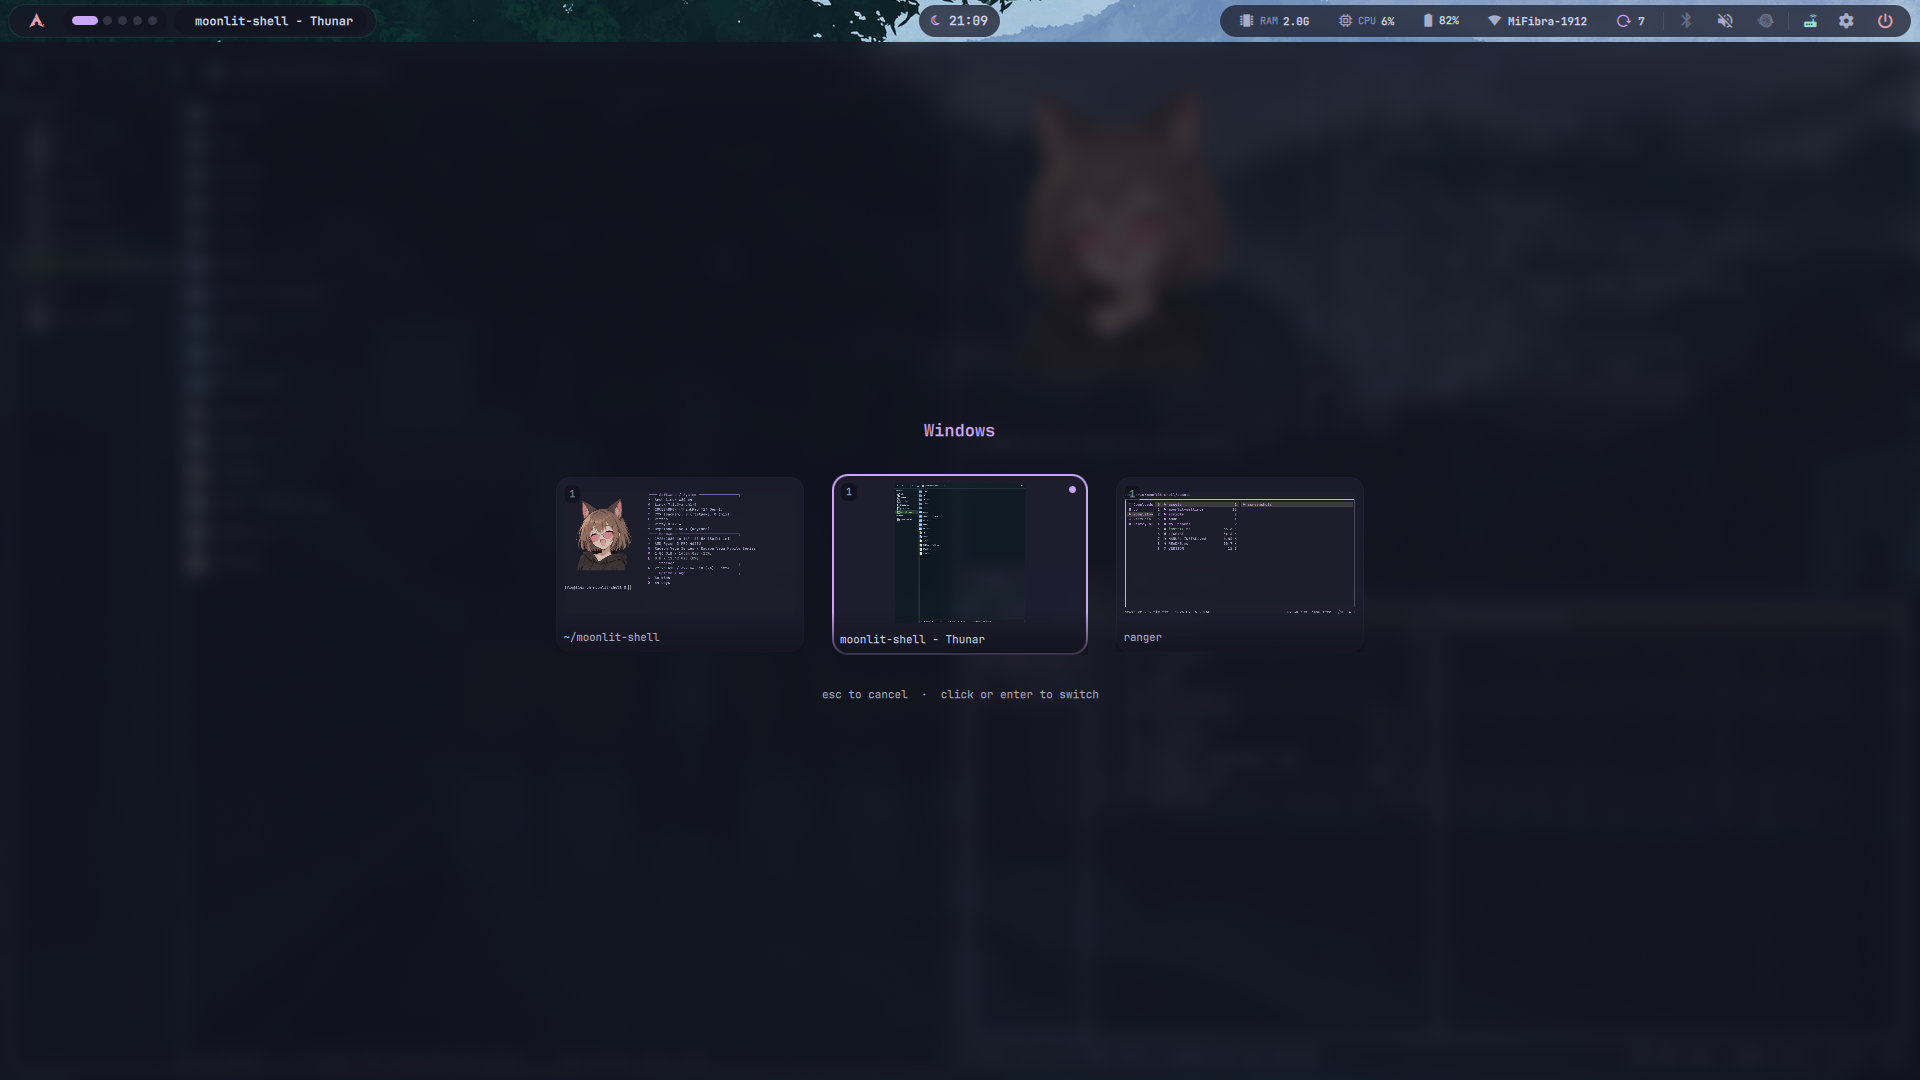
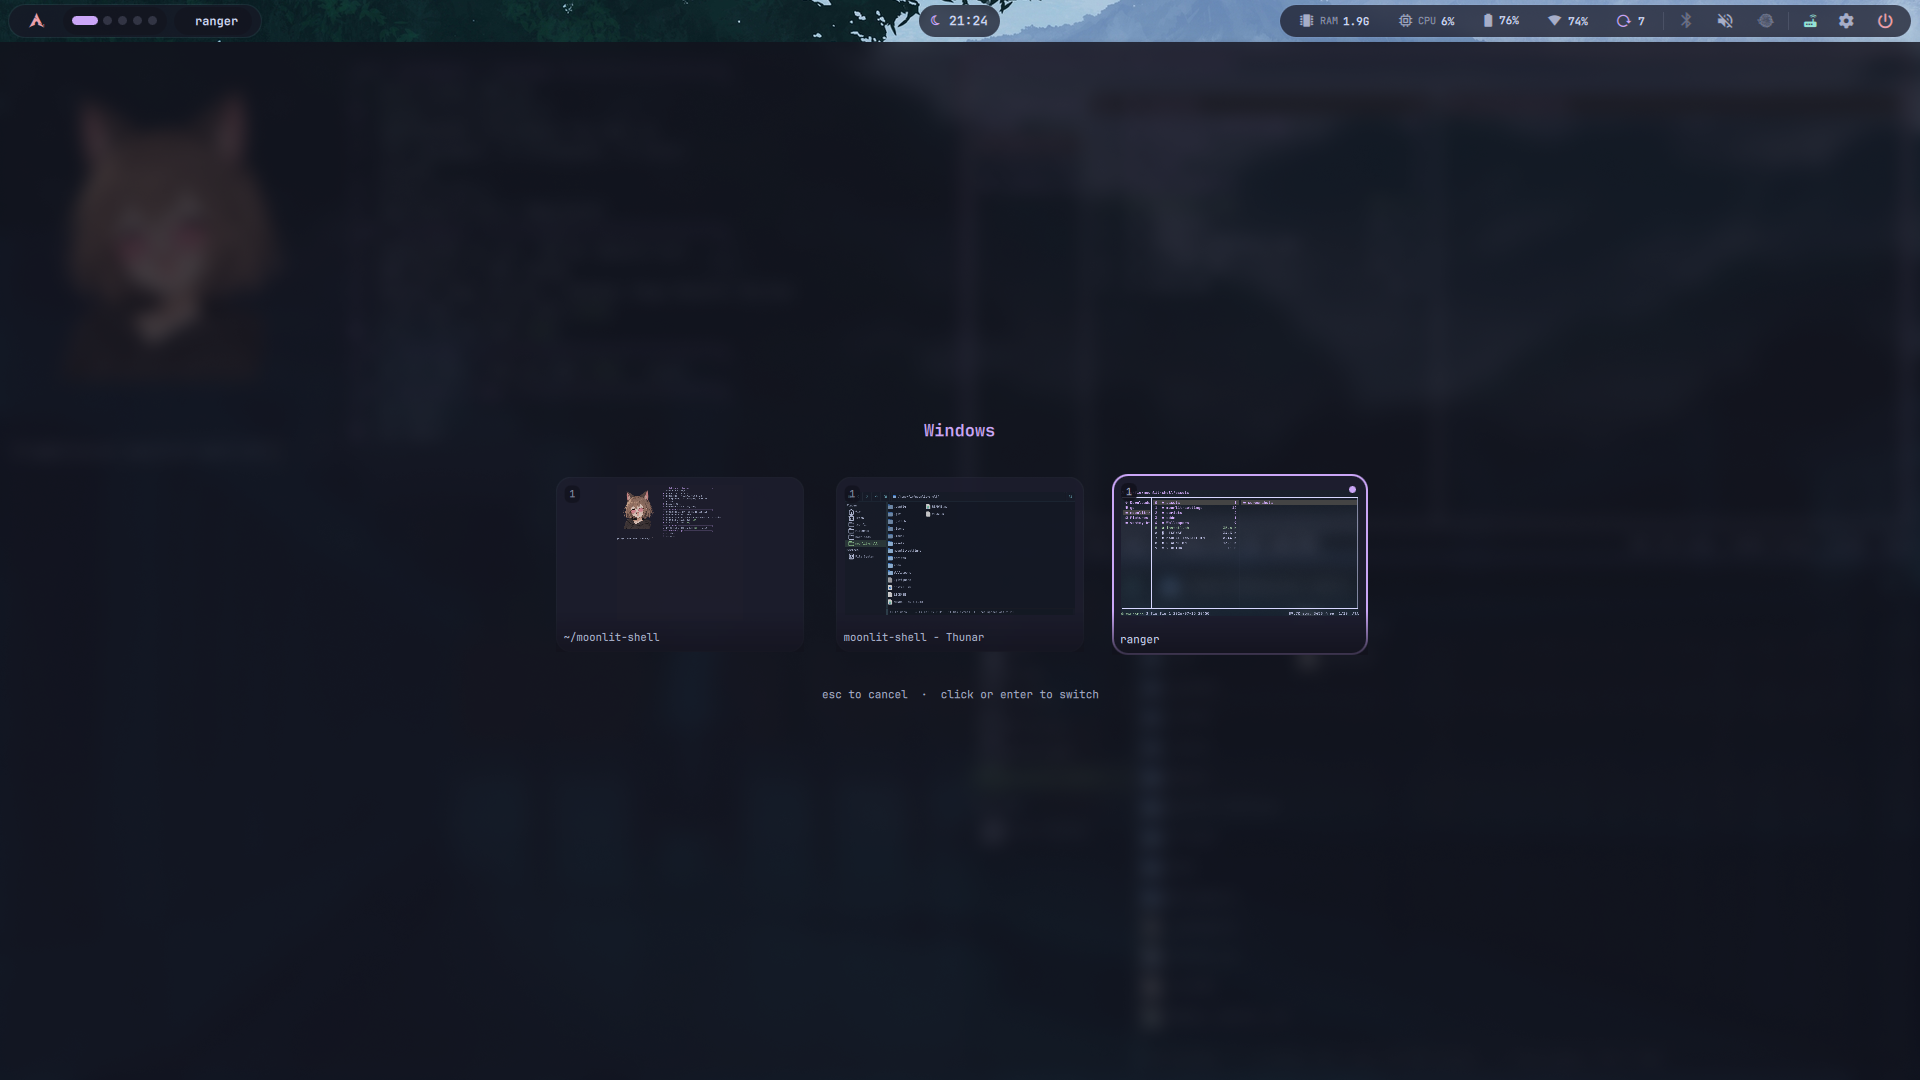
tooling: hide WiFi name during screenshot capture, regenerate gallery
The last batch of screenshots leaked my real WiFi SSID in the bar.
capture_screenshots.py now flips showNetworkName off for the whole
run and restores it after, using a generalized set_config() helper
(was set_bar_position()-only before). Regenerated all 7 shots.

diff --git a/scripts/capture_screenshots.py b/scripts/capture_screenshots.py
@@ -98,10 +98,11 @@ def toggle_panel(name: str):
     qs_ipc("panel", "toggle", name)
 
 
-def set_bar_position(position: str):
+def set_config(**kwargs):
+    """Set live config keys, return their original values for restoring later."""
     cfg = json.loads(CONFIG_PATH.read_text())
-    original = cfg.get("barPosition", "top")
-    cfg["barPosition"] = position
+    original = {k: cfg.get(k) for k in kwargs}
+    cfg.update(kwargs)
     CONFIG_PATH.write_text(json.dumps(cfg, indent=4))
     time.sleep(1.0)  # live-reload settle
     return original
@@ -124,6 +125,9 @@ def main():
     parked = park_existing_windows()
     time.sleep(0.6)
     prime_bar_title()
+
+    print("Hiding WiFi network name (real name, not for screenshots)...")
+    orig_privacy = set_config(showNetworkName=False)
 
     try:
         print("1/7 hero-desktop")
@@ -179,15 +183,16 @@ def main():
         time.sleep(0.5)
 
         print("7/7 side bar (left) + audio panel")
-        orig_pos = set_bar_position("left")
+        orig_pos = set_config(barPosition="left")["barPosition"]
         toggle_panel("audio")
         shot("sidebar-left-audio")
         toggle_panel("audio")
         time.sleep(0.4)
-        set_bar_position(orig_pos)
+        set_config(barPosition=orig_pos)
         time.sleep(1.0)
 
     finally:
+        set_config(**orig_privacy)
         time.sleep(0.4)
         print("Restoring parked windows...")
         restore_windows(parked)
